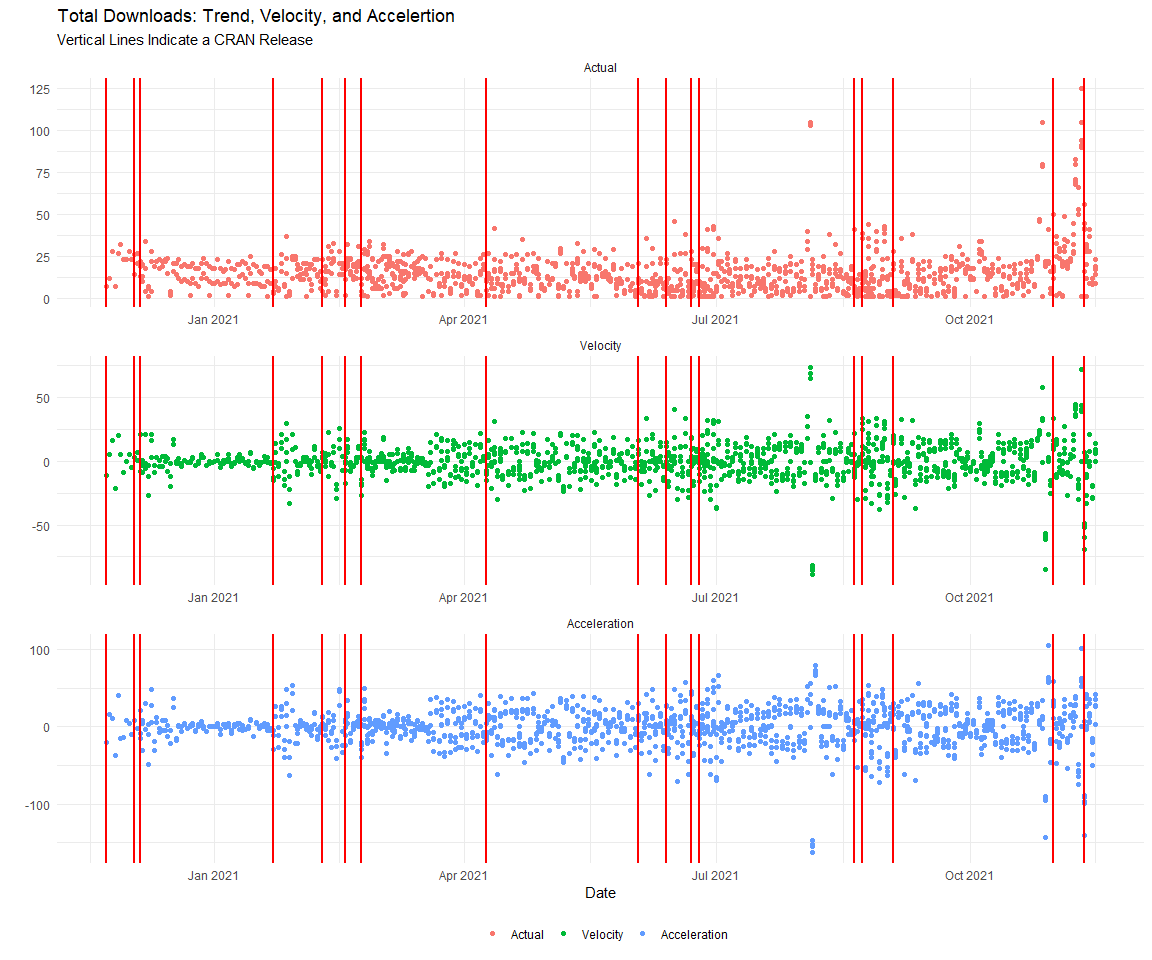
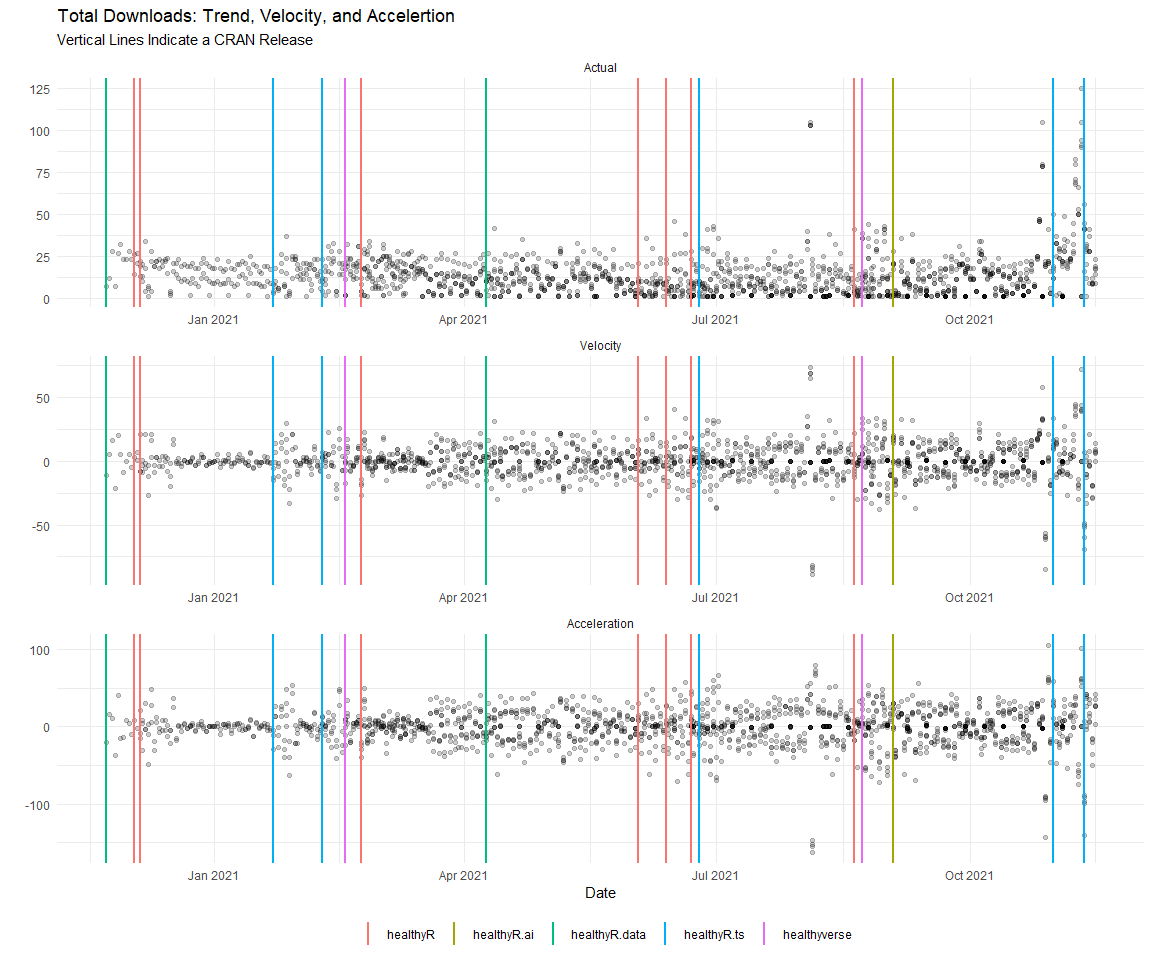
update graphics

diff --git a/README.md b/README.md
@@ -208,13 +208,11 @@ dl_tbl %>%
   pivot_longer(-date) %>%
   mutate(name = str_to_title(name)) %>%
   mutate(name = as_factor(name)) %>%
-  ggplot(aes(x = date, y = value, group = name, color = name)) +
-  #geom_line() +
-  geom_point() +
+  ggplot(aes(x = date, y = value, group = name)) +
+  geom_point(alpha = .2) +
   geom_vline(
     data = pkg_tbl
-    , aes(xintercept = as.numeric(date))
-    , color = "red"
+    , aes(xintercept = as.numeric(date), color = package)
     , lwd = 1
     , lty = "solid"
   ) +
